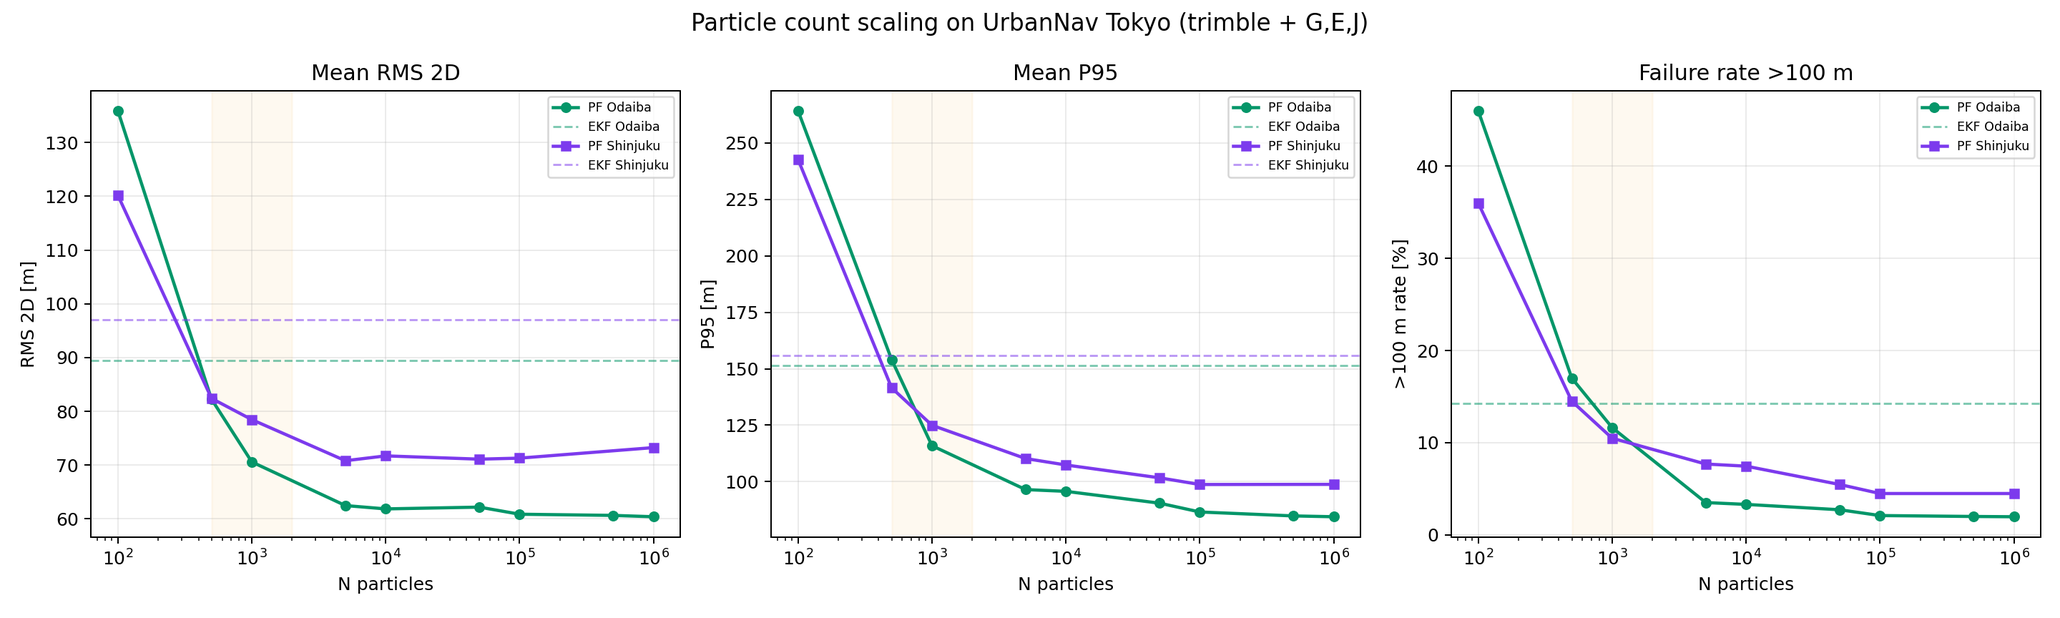
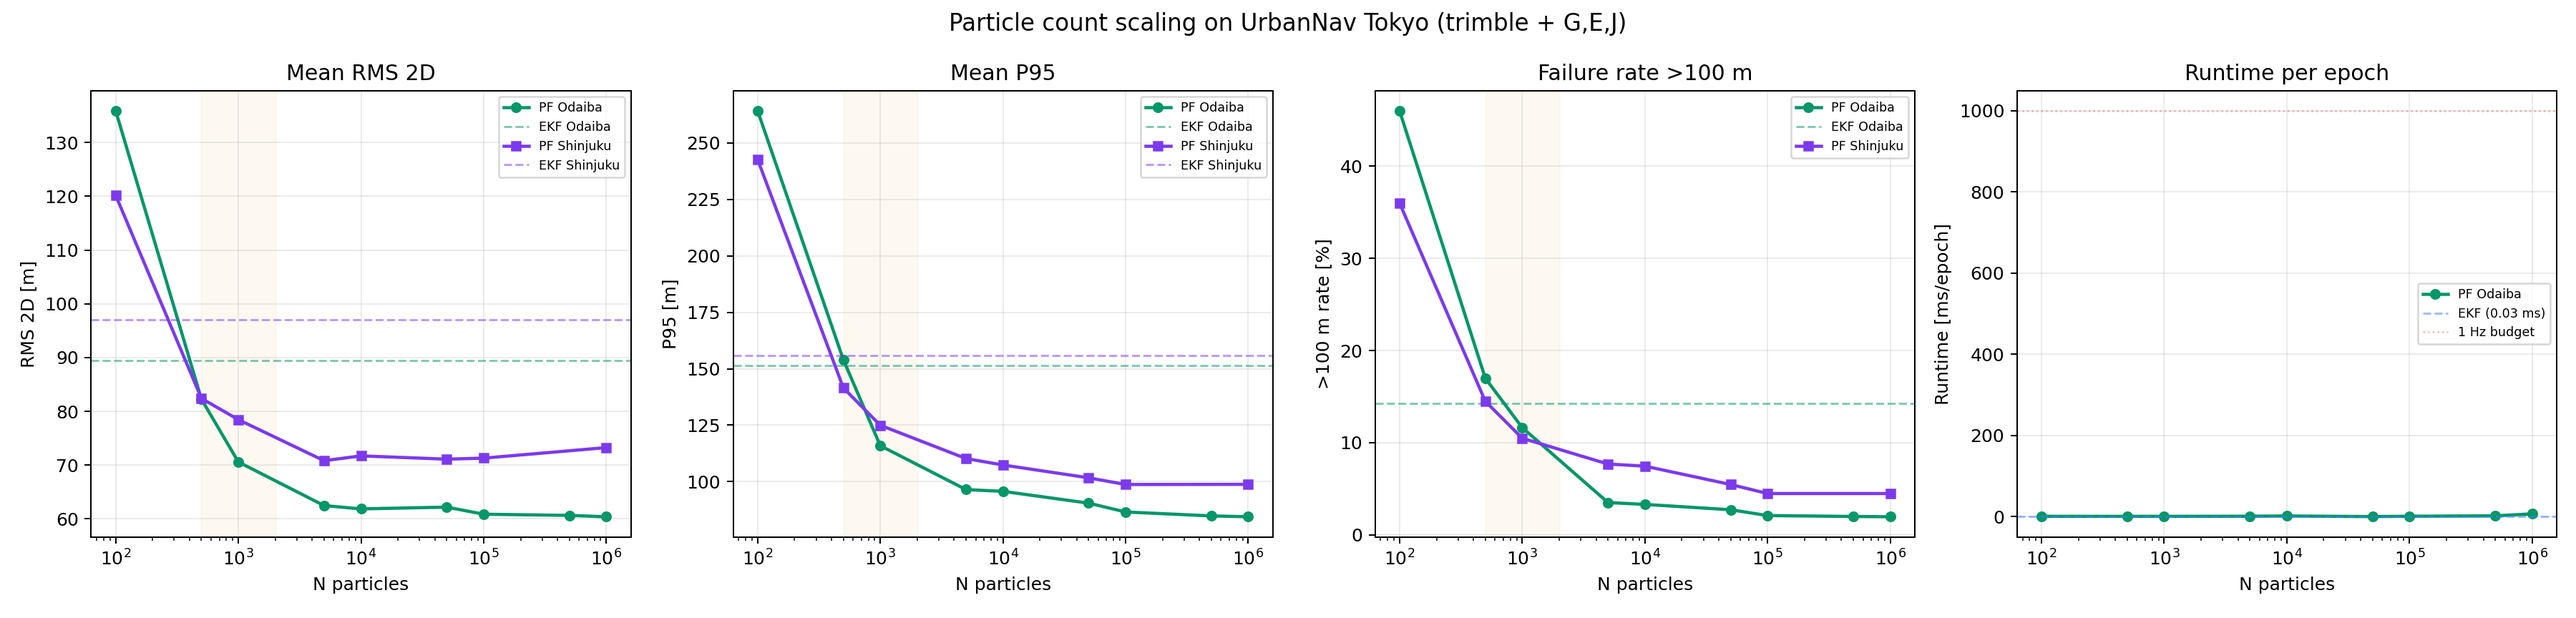
update README with HK breadth, scaling figure, and runtime panel
- Add HK supplemental rows to headline table (3 sequences, PF beats EKF)
- Add particle scaling section with figure (phase transition at N≈1000)
- Update claims: 5 sequences / 2 cities, scaling finding
- Scaling figure now 4-panel: RMS, P95, >100m rate, runtime
- 1M particles at 7 ms/epoch — well within 1 Hz GNSS budget

diff --git a/experiments/build_paper_assets.py b/experiments/build_paper_assets.py
@@ -488,53 +488,65 @@ def _plot_particle_scaling(output_path: Path) -> None:
 
     # Scaling experiment results: trimble + G,E,J
     # (N, RMS 2D, P95, >100m rate)
+    # (N, RMS 2D, P95, >100m rate, runtime ms/epoch)
     odaiba_data = [
-        (100, 135.88, 264.19, 46.01),
-        (500, 82.27, 153.98, 17.00),
-        (1_000, 70.59, 115.92, 11.64),
-        (5_000, 62.48, 96.50, 3.51),
-        (10_000, 61.86, 95.72, 3.31),
-        (50_000, 62.19, 90.49, 2.73),
-        (100_000, 60.87, 86.58, 2.10),
-        (500_000, 60.65, 84.84, 2.00),
-        (1_000_000, 60.40, 84.47, 1.97),
+        (100, 135.88, 264.19, 46.01, 1.03),
+        (500, 82.27, 153.98, 17.00, 0.99),
+        (1_000, 70.59, 115.92, 11.64, 1.05),
+        (5_000, 62.48, 96.50, 3.51, 1.29),
+        (10_000, 61.86, 95.72, 3.31, 1.95),
+        (50_000, 62.19, 90.49, 2.73, 0.43),
+        (100_000, 60.87, 86.58, 2.10, 1.28),
+        (500_000, 60.65, 84.84, 2.00, 2.25),
+        (1_000_000, 60.40, 84.47, 1.97, 7.16),
     ]
     shinjuku_data = [
-        (100, 120.17, 242.63, 36.00),
-        (500, 82.41, 141.52, 14.50),
-        (1_000, 78.46, 124.97, 10.49),
-        (5_000, 70.82, 110.24, 7.69),
-        (10_000, 71.72, 107.39, 7.46),
-        (50_000, 71.11, 101.71, 5.47),
-        (100_000, 71.30, 98.75, 4.49),
-        (1_000_000, 73.26, 98.81, 4.49),
+        (100, 120.17, 242.63, 36.00, None),
+        (500, 82.41, 141.52, 14.50, None),
+        (1_000, 78.46, 124.97, 10.49, None),
+        (5_000, 70.82, 110.24, 7.69, None),
+        (10_000, 71.72, 107.39, 7.46, None),
+        (50_000, 71.11, 101.71, 5.47, None),
+        (100_000, 71.30, 98.75, 4.49, None),
+        (1_000_000, 73.26, 98.81, 4.49, None),
     ]
     ekf_odaiba = (89.42, 151.43, 14.23)
-    ekf_shinjuku = (97.07, 155.93, None)  # P95/outlier from per-run data
+    ekf_shinjuku = (97.07, 155.93, None)
 
-    fig, axes = plt.subplots(1, 3, figsize=(16, 4.8))
-    metrics = ("RMS 2D [m]", "P95 [m]", ">100 m rate [%]")
-    titles = ("Mean RMS 2D", "Mean P95", "Failure rate >100 m")
+    fig, axes = plt.subplots(1, 4, figsize=(20, 4.8))
+    metrics = ("RMS 2D [m]", "P95 [m]", ">100 m rate [%]", "Runtime [ms/epoch]")
+    titles = ("Mean RMS 2D", "Mean P95", "Failure rate >100 m", "Runtime per epoch")
 
     for col, (ax, ylabel, title) in enumerate(zip(axes, metrics, titles, strict=True)):
-        for data, ekf, label, color, marker in [
-            (odaiba_data, ekf_odaiba, "Odaiba", "#059669", "o"),
-            (shinjuku_data, ekf_shinjuku, "Shinjuku", "#7c3aed", "s"),
-        ]:
-            ns = [d[0] for d in data]
-            vals = [d[col + 1] for d in data]
-            ax.plot(ns, vals, f"{marker}-", color=color, linewidth=1.8,
-                    markersize=5, label=f"PF {label}")
-            if ekf[col] is not None:
-                ax.axhline(ekf[col], color=color, linestyle="--",
-                           linewidth=1.2, alpha=0.5, label=f"EKF {label}")
+        if col < 3:
+            for data, ekf, label, color, marker in [
+                (odaiba_data, ekf_odaiba, "Odaiba", "#059669", "o"),
+                (shinjuku_data, ekf_shinjuku, "Shinjuku", "#7c3aed", "s"),
+            ]:
+                ns = [d[0] for d in data]
+                vals = [d[col + 1] for d in data]
+                ax.plot(ns, vals, f"{marker}-", color=color, linewidth=1.8,
+                        markersize=5, label=f"PF {label}")
+                if ekf[col] is not None:
+                    ax.axhline(ekf[col], color=color, linestyle="--",
+                               linewidth=1.2, alpha=0.5, label=f"EKF {label}")
+            ax.axvspan(500, 2000, alpha=0.06, color="#f59e0b")
+        else:
+            # Runtime panel (Odaiba only)
+            ns = [d[0] for d in odaiba_data if d[4] is not None]
+            rts = [d[4] for d in odaiba_data if d[4] is not None]
+            ax.plot(ns, rts, "o-", color="#059669", linewidth=1.8, markersize=5,
+                    label="PF Odaiba")
+            ax.axhline(0.031, color="#3b82f6", linestyle="--", linewidth=1.2,
+                       alpha=0.5, label="EKF (0.03 ms)")
+            ax.axhline(1000, color="#ef4444", linestyle=":", linewidth=1,
+                       alpha=0.4, label="1 Hz budget")
         ax.set_xscale("log")
         ax.set_xlabel("N particles")
         ax.set_ylabel(ylabel)
         ax.set_title(title)
         ax.grid(True, alpha=0.25)
         ax.legend(fontsize=7)
-        ax.axvspan(500, 2000, alpha=0.06, color="#f59e0b")
 
     fig.suptitle(
         "Particle count scaling on UrbanNav Tokyo (trimble + G,E,J)",

diff --git a/README.md b/README.md
@@ -31,9 +31,10 @@ Motion assets:
 
 - Main external method: `PF+RobustClear-10K`
 - Main external dataset/result: UrbanNav Tokyo, `trimble + G,E,J`, fixed evaluation
+- Cross-geography breadth: Hong Kong 3 sequences, `PF+AdaptiveGuide-10K` beats `EKF` on all
+- Scaling finding: particle count phase transition at N≈1,000, tail improvement up to 1M
 - Exploratory but not headline: PPC gate family
 - Systems contribution: `PF3D-BVH-10K`
-- Supplemental safety variants: `PF+AdaptiveGuide-10K`, `PF+EKFRescue-10K`
 - Promoted reusable hook: `WLS+QualityVeto`
 
 ### Current headline numbers
@@ -43,24 +44,34 @@ Motion assets:
 | UrbanNav external | `EKF` | 93.25 m | 178.18 m | 16.29% | 0.161% | `trimble + G,E,J` |
 | UrbanNav external | `PF-10K` | 67.61 m | 101.46 m | 5.44% | 0.000% | close ablation |
 | UrbanNav external | `PF+RobustClear-10K` | 66.60 m | 98.53 m | 4.80% | 0.000% | frozen winner |
+| HK supplemental | `EKF` | 69.49 m | 95.19 m | 2.99% | 0.000% | `ublox + G` (GPS-only) |
+| HK supplemental | `PF+AdaptiveGuide-10K` | 66.85 m | 97.45 m | 3.85% | 0.000% | `ublox + G,C` (adaptive guide) |
 | PPC holdout | `always_robust` | 66.92 m | 81.69 m | 5.83% | 0.000% | safe baseline |
 | PPC holdout | exploratory gate | 65.54 m | 81.22 m | 5.83% | 0.000% | holdout survives, but gain is modest |
 | BVH systems | `PF3D-10K` | 55.50 m | 58.39 m | 0.000% | 0.000% | real PLATEAU subset |
 | BVH systems | `PF3D-BVH-10K` | 55.50 m | 58.39 m | 0.000% | 0.000% | `57.8x` faster |
 
+### Particle count scaling
+
+![Particle scaling](experiments/results/paper_assets/paper_particle_scaling.png)
+
+PF performance crosses the EKF baseline at N≈1,000 particles. Mean RMS saturates near N=5,000, but the >100 m failure rate continues to improve up to 1M particles — from 3.31% to 1.97% on Odaiba and from 7.46% to 4.49% on Shinjuku. GPU-scale particle inference enables a tail-robustness regime unreachable at conventional particle counts.
+
 ### What this repo claims
 
-- UrbanNav external validation now supports the multi-GNSS PF path.
-- `PF+RobustClear-10K` is the strongest current full-run external method.
-- BVH makes real-PLATEAU PF3D runtime practical without changing the measured PF3D accuracy on the evaluated subset.
-- The repo has a reproducible experiment trail: accepted, exploratory, and rejected variants are documented separately.
+- PF family outperforms EKF across 5 sequences in 2 cities (Tokyo + Hong Kong).
+- `PF+RobustClear-10K` is the strongest Tokyo external method.
+- `PF+AdaptiveGuide-10K` beats EKF on all 3 Hong Kong sequences when configured with GPS+BeiDou.
+- Particle count scaling reveals a phase transition: RMS saturates early, but tail failure rates require GPU-scale inference to reach their floor.
+- BVH makes real-PLATEAU PF3D runtime practical without changing accuracy.
+- The repo has a reproducible experiment trail with 14 cited references.
 
 ### What this repo does not claim
 
 - It does not claim a world-first GNSS particle filter.
 - It does not claim that explicit 3D map reasoning is the current main accuracy winner on real data.
 - It does not claim that every exploratory gate family generalizes strongly.
-- It does not claim that Hong Kong is already a second positive external win of the same strength as UrbanNav Tokyo.
+- It does not claim that the frozen Tokyo mainline transfers directly to Hong Kong without configuration change.
 
 ## Repo front door
 
@@ -151,6 +162,7 @@ This rebuilds:
 - `experiments/results/paper_assets/paper_urbannav_external.png`
 - `experiments/results/paper_assets/paper_bvh_runtime.png`
 - `experiments/results/paper_assets/paper_captions.md`
+- `experiments/results/paper_assets/paper_particle_scaling.png`
 
 ## Reproduce the current headline result
 
@@ -199,8 +211,10 @@ Main output files:
 - `experiments/results/paper_assets/paper_main_table.md`
 - `experiments/results/paper_assets/paper_urbannav_external.png`
 - `experiments/results/paper_assets/paper_bvh_runtime.png`
+- `experiments/results/paper_assets/paper_particle_scaling.png`
 - `experiments/results/urbannav_window_eval_external_gej_trimble_qualityveto_w500_s250_summary.csv`
 - `experiments/results/pf_strategy_lab_holdout6_r200_s200_summary.csv`
+- `experiments/results/urbannav_fixed_eval_hk20190428_gc_adaptive_summary.csv`
 
 ## License
 
